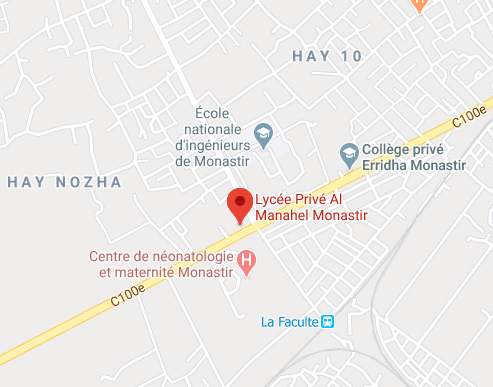
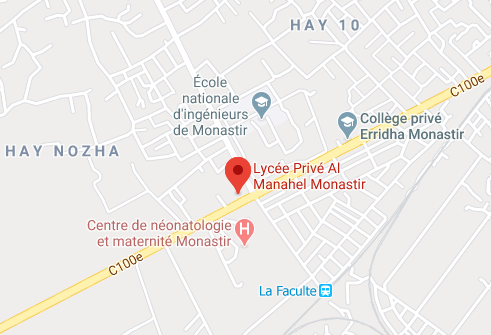
footer map to img

diff --git a/resources/views/layouts/partial/footer-scripts.blade.php b/resources/views/layouts/partial/footer-scripts.blade.php
@@ -7,7 +7,7 @@
 
 
 <!-- google map -->
-<script>
+<!--<script>
 // Initialize and add the map
 function initMap() {
   // The location of Uluru
@@ -19,12 +19,8 @@ function initMap() {
   var marker = new google.maps.Marker({position: uluru, map: map});
 }
     </script>
-    <!--Load the API from the specified URL
-    * The async attribute allows the browser to render the page while the API loads
-    * The key parameter will contain your own API key (which is not needed for this tutorial)
-    * The callback parameter executes the initMap() function
-    -->
+
     <script async defer
     src="https://maps.googleapis.com/maps/api/js?key=AIzaSyBIu-gKTYlbOxB-KOddBVkcyEGc5HCfozs&callback=initMap">
-    </script>
+    </script>-->
  @yield('footer_scripts')

diff --git a/resources/views/contact.blade.php b/resources/views/contact.blade.php
@@ -37,8 +37,8 @@ $cont =  App\Contenu::where('zone', 'contact')->first();$contenu=$cont->contenu 
 <div class="col-xs-12 col-sm-12  col-md-5 col-lg-5">  
  
  <center>
- <a href="https://www.google.com/maps/place/Lyc%C3%A9e+Priv%C3%A9+Al+Manahel+Monastir/@35.7642893,10.7952923,15z/data=!4m5!3m4!1s0x0:0xadfd0b46e4ab1658!8m2!3d35.7627223!4d10.8033175">
- <img src="http://<?php echo $_SERVER['HTTP_HOST'];?>/public/site/img/manahel.png"></a>
+ <a href="https://g.page/almanahel-monastir" target="blank">
+ <img src="{{  URL::asset('public/site/img/manahel.png') }}"></a>
  </center>
  
  </div>

diff --git a/resources/views/layouts/partial/footer.blade.php b/resources/views/layouts/partial/footer.blade.php
@@ -76,7 +76,11 @@
 
         <!-- Links -->
         <h6 class="font-weight-bold text-uppercase mb-4">MAP</h6>
-        <div id="map"></div>
+        <!--<div id="map"></div>-->
+        <center>
+         <a href="https://g.page/almanahel-monastir" target="blank">
+         <img src="{{  URL::asset('public/site/img/manahel.png') }}" width="300"></a>
+        </center>
         
       </div>
       
